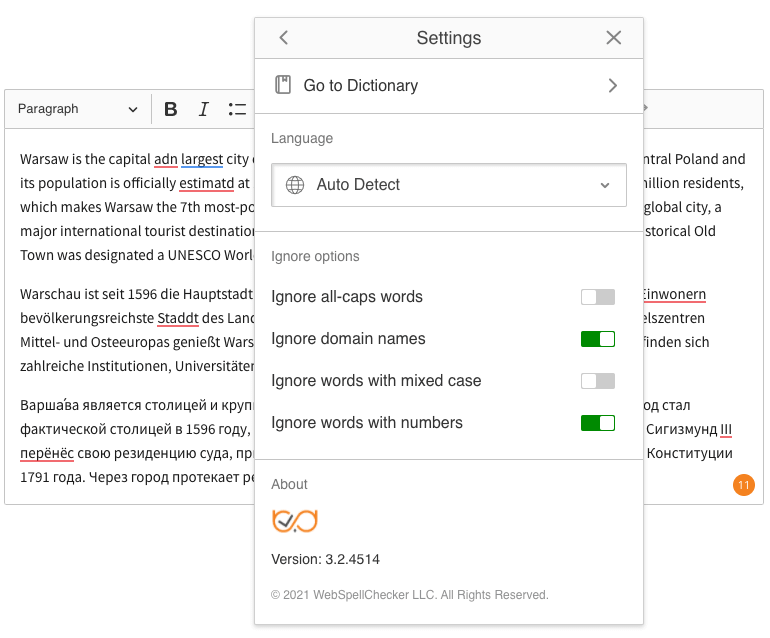
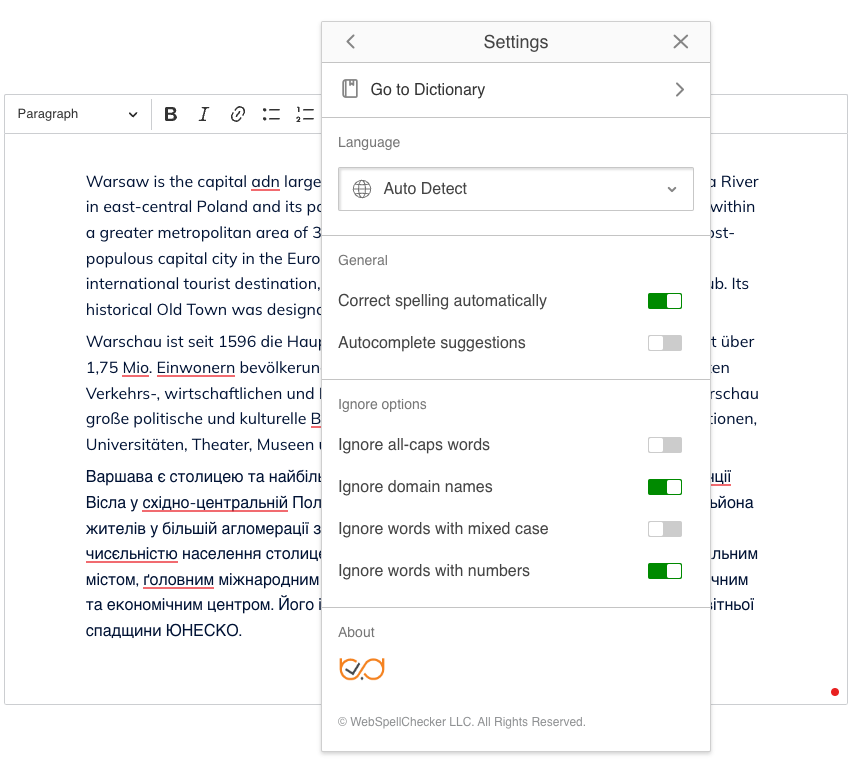
Docs: WebSpellChecker Docs. See #2020

diff --git a/docs/_snippets/features/wproofreader.html b/docs/_snippets/features/wproofreader.html
@@ -1,7 +1,7 @@
 <div id="snippet-wproofreader">
 	<p>Warsaw is the capital adn largest city of Poland. The metropolis stands on the Vistula River in east-central Poland and its population is officially estimatd at 1.8 million residents within a greater metropolitan area of 3.1 million residents, which makes Warsaw the 7th most-populous capital city in the European Union. Warsaw is an alpha-global city, a major international tourist destination, and a significaant cultural, political, and economic hub. Its historical Old Town was designated a UNESCO World Heritage Site.</p>
 
-	<p>Warschau ist seit 1596 die Hauptstadt Polens und die fl&auml;chenm&auml;&szlig;ig gr&ouml;&szlig;te sowie mit &uuml;ber 1,75 Mio. Einwonern bev&ouml;lkerungsreichste Staddt des Landes. Als eines der wichtigsten Verkehrs-, Wirtschafts- und Handelszentren Mittel- und Osteeuropas genie&szlig;t Warschau gro&szlig;e politische und kulturelle Bedetung. In der Stadt befinden sich zahlreiche Institutionen, Universit&auml;ten, Theater, Museen und Baudenkm&auml;ler.</p>
+	<p>Warschau ist seit 1596 die Hauptstadt Polens und die fl&auml;chenm&auml;&szlig;ig gr&ouml;&szlig;te sowie mit &uuml;ber 1,75 Mio. Einwonern bev&ouml;lkerungsreichste Staddt des Landes. Als eines der wichtigsten Verkehrs-, wirtschaftlichen und Handelszentren Mittel- und Osteeuropas genie&szlig;t Warschau gro&szlig;e politische und kulturelle Bedetung. In der Stadt befinden sich zahlreiche Institutionen, Universit&auml;ten, Theater, Museen und Baudenkm&auml;ler.</p>
 
-	<p>Варшава является столицей и крупнейшим по населению, и территории городом Польшй. Город стал фактической столицей в 1596 году, коггда после пожара в Вавельском замке в Кракове король Сигизмунд III перёнёс свою резиденцию суда, при этом столичный статус города был подтверждён только в Конституции 1791 года. Через город протекает река Висла, разделяющая город приблизительно поровну.</p>
+	<p>Варшава є столицею та найбільшим містом Польщі. Мегаполіс розташований на річції Вісла у східно-центральній Польщі, а його населення офіційно оцінюється в 1,8 мільйона жителів у більшій агломерації з 3,1 мільйона жителів, що робить Варшаву 7-ю за чисєльністю населення столицею в Європейському Союзі. Варшава є альфа-глобальним містом, ґоловним міжнародним туристичним центром і значним культурним, політичним та економічним центром. Його історичне Старе місто було визнано обьєктом Всесвітньої спадщини ЮНЕСКО.</p>
 </div>

diff --git a/docs/features/spelling-and-grammar-checking.md b/docs/features/spelling-and-grammar-checking.md
@@ -1,31 +1,31 @@
 ---
 category: features
 menu-title: Spelling and grammar checking
-modified_at: 2021-05-07
+modified_at: 2022-10-05
 badges: [ premium ]
 ---
 
-# Proofreading, spelling and grammar checking
+# Spelling, grammar and punctuation checking
 
-[WProofreader](https://webspellchecker.com/wsc-proofreader) is an innovative, multi-language proofreading tool that combines the functionality of "spell check as you type" and "spell check in a dialog" in a modern, distraction-free UI. Spelling, punctuation and grammar suggestions are available on hover with no clicking needed or as a convenient dialog, both with additional in-place replacement suggestions.
+[WProofreader SDK](https://webspellchecker.com/wsc-proofreader) is an AI-driven, multi-language text correction tool. It offers handy as-you-type proofreading options in a modern, distraction-free UI. Spelling, grammar and punctuation suggestions are available on hover as you type or in separate dialog aggregating all mistakes and replacement suggestions in one place.
 
-You can fine-tune the spell checking rules via the dedicated settings menu. You can choose from a set of predefined languages (easily chosen and added as language packs) and manage additional custom dictionaries. Words can be added to the user dictionary directly from the suggestion card, too. If needed, the spell checker can be easily disabled and enabled again with a click.
+You can fine-tune WProofreader via the dedicated settings menu. Choose a primary language from a set of available ones, create and manage additional custom dictionaries. Words can be added to the user dictionary directly from the suggestion card, too. If needed, the spell checker can be easily disabled and enabled again with a click.
 
 After reading this guide, you may find additional interesting details and examples in the [Spell and grammar check in CKEditor 5](https://ckeditor.com/blog/feature-of-the-month-spell-and-grammar-check-in-ckeditor-5/) blog post.
 
 <info-box>
 	This is a premium feature that is additionally payable on top of CKEditor 5 commercial license fee and delivered by our partner, [WebSpellChecker](https://webspellchecker.com/). Please [contact us](https://ckeditor.com/contact/) if you have any feedback or questions.
 
-	You can also report any issues in [its official GitHub repository](https://github.com/WebSpellChecker/wproofreader).
+	You can report any issues in the WebSpellChecker [GitHub repository](https://github.com/WebSpellChecker/wproofreader).
 </info-box>
 
 <info-box info>
-	The Spelling and grammar checking feature is enabled by default in the {@link installation/getting-started/predefined-builds#superbuild superbuild} only. See the [installation](#installation) section to learn how to enable it in your editor.
+	The spell and grammar check feature is enabled by default in the {@link installation/getting-started/predefined-builds#superbuild superbuild} only. See the [installation](#installation) section to learn how to enable it in your editor.
 </info-box>
 
 ## Demo
 
-Use the toolbar button {@icon @webspellchecker/wproofreader-ckeditor5/theme/icons/wproofreader.svg Spelling and grammar check} to test the spelling and grammar checking feature in the editor below.
+Use the toolbar button {@icon @webspellchecker/wproofreader-ckeditor5/theme/icons/wproofreader.svg Spell and grammar check} to test the spell and grammar check feature in the editor below.
 
 {@snippet features/wproofreader}
 
@@ -33,45 +33,53 @@ Use the toolbar button {@icon @webspellchecker/wproofreader-ckeditor5/theme/icon
 	This demo only presents a limited set of features. Visit the {@link examples/builds/full-featured-editor full-featured editor example} to see more in action.
 </info-box>
 
-The proofreader badge in the bottom-right corner shows you the total number of mistakes detected. Hover an underlined word to display the proofreader suggestions for any of the spelling and grammar mistakes found. The hovercard allows the user to employ the feature on the go. If you want to see an overview of all mistakes, click the "Proofread in dialog" option in the toolbar dropdown. It will invoke a detached floating panel, easy to navigate and perfect for dedicated proofreading sessions.
+The WProofreader badge in the bottom-right corner shows you the total number of mistakes detected. Hover an underlined word to display the WProofreader suggestions for any of the spelling and grammar mistakes found. The suggestion card allows the user to employ the feature on the go. If you want to see an overview of all mistakes, click the "Proofread in dialog" option in the toolbar dropdown. It will invoke a detached floating dialog, which is easy to navigate and perfect for dedicated proofreading sessions.
 
-You can access the proofreader settings from the toolbar, too. These can be used to set the language dictionary and some additional proofreading settings.
+You can access the WProofreader settings from the toolbar, too. Set the primary language, create a spelling dictionary and tweak some additional proofreading settings.
 
 <info-box>
-	The toolbar button has been introduced in version 2.x of the WProofreader. Read more about configuring UI items in the {@link features/toolbar toolbar guide}. If you are still using version 1.x, the available settings and dialog options can be accessed through the bottom-right corner badge instead.
+	The toolbar button has been introduced in version 2.x of WProofreader. Read more about configuring UI items in the {@link features/toolbar toolbar guide}. If you are still using version 1.x, the available settings and dialog options can be accessed through the bottom-right corner badge instead.
 </info-box>
 
 ## Multi-language support
 
-The {@link features/language text part language} feature lets the user set different languages to different portions of the content. The spell checking and grammar feature offers full support for such a multilingual content. If the proofreader language is set to Auto Detect (or the `auto` language is set in the configuration), the feature will automatically recognize the text language and suggest error corrections and grammar specifically for that language, as shown in the demo above.
+The {@link features/language text part language} feature lets the user set different languages to different portions of the content. The spell and grammar check feature offers full support for a multilingual content. If the WProofreader language is set to Auto Detect (or the `auto` language is set in the configuration), the feature will automatically recognize the language for a sentence and suggest spelling and grammar corrections and grammar specifically for that language, as shown in the demo above.
 
 {@img assets/img/spellcheck-dictionary.png 770 Setting the spell checker dictionary to auto.}
+
+## Check types
+
+WProofreader checks texts for spelling, grammar, and punctuation mistakes. The Auto Detect feature facilitates correction of multilingual texts. Users don’t have to manually switch languages to proofread combo docs. Handy spelling Autocorrect validates user texts on the fly. Autocomplete suggestions for English make the proofreading process fast and smooth. The predictive text can be accepted with a right arrow key →.
 
 ## Supported languages and dictionaries
 
 ### Language support
 
-The most popular languages used with WProofreader include: American English, British English, Canadian English, Canadian French, French, German, Italian, Greek, Spanish, Finnish, Danish, Dutch, Portuguese, Swedish, Ukrainian, Norwegian Bokmål, Brazilian Portuguese. There are, however, over 160 languages altogether, available for download from the WebSpellChecker site. Grammar checking is available for over 20 languages.
+The most popular languages used with WProofreader include: American English, Australian English, Arabic, Brazilian Portuguese, British English, Canadian English, Canadian French, Danish, Dutch, Finnish, French, German, Greek, Hebrew, Italian, Indonesian, Norwegian Bokmål, Norwegian Nynorsk, Portuguese, Spanish, Swedish, Turkish, Ukrainian.
 
-A recent addition to the software are AI-driven tools. Smart algorithms employed in the AI-based language dictionaries offer a far better checking quality, generating proofreading suggestions based on the context of the sentence. They provide more suitable suggestions that address mistakes with thrice the accuracy of traditional dictionaries. The AI-based support is currently available for English and German.
+There are, however, more languages available from the WebSpellChecker site. Grammar checking is available for over 20 languages.
+
+The AI-driven tools approach for English, German, and Spanish is a recent addition to the software. It offers a far better checking quality, and generates proofreading suggestions based on the context of a sentence. It provides more suitable suggestions that address mistakes with 3X accuracy compared to traditional mechanism. The AI-based support is currently available for English and German.
 
 Here you can check the [full list of available languages](https://webspellchecker.com/additional-dictionaries/).
 
+### Specialized dictionaries
+
+Apart from the language dictionaries, WebSpellChecker offers two specialized dictionaries: medical and legal.
+
 ### Custom dictionaries
 
-Apart from the language dictionaries, WebSpellChecker offers two specialized dictionaries: a **medical** and a **legal** one, available for an additional fee.
+Custom dictionaries can be used in two ways.
 
-There are also two types of custom dictionaries available.
+One is the **user-level dictionary** that can be expanded during the regular use by adding new words. This is a perfect solution for users working on specific content that may contain slang or professional jargon.
 
-One is the **user dictionary** that can be expanded and will grow during the regular use of the feature simply by adding new words to the dictionary. This is a perfect solution for editors and writers working on specific content that may contain slang or professional jargon.
-
-The other is the so-called **company-wide dictionary**. These premade dictionaries can be uploaded by the system administrators or CKEditor 5 integrators and can be made available company-wide, accessible for all users. This way all benefits of a user-generated dictionary can be shared among the team, making the proofreading process more structured and controlled.
+The other is the so-called **company-level dictionary**. These premade dictionaries can be uploaded by system administrators or CKEditor 5 integrators and made available across the company, accessible for all users. This way all benefits of a user-generated dictionary can be shared among the team, making the proofreading process more structured and controlled.
 
 ## Accessibility
 
-The feature's UI is designed and oriented toward the comfort and ease of use. The proofreading floating dialog can be easily moved around, addressing the needs of left-handed editors and right-to-left language users. The clear, simple design is more readable for users with vision impairments. The dialog can also be navigated and operated with keyboard, eliminating the need to use a mouse or another pointing device.
+The WProofreader UI is designed and oriented toward comfort and ease of use. The proofreading floating dialog can be easily moved around, addressing the needs of left-handed editors and right-to-left language users. The clear, simple design is more readable for users with vision impairments. The dialog can also be navigated and operated with a keyboard, eliminating the need to use a mouse or another pointing device.
 
-The feature is compliant with WCAG 2.1 and Section 508 accessibility standards.
+The spell and grammar check is compliant with WCAG 2.1 and Section 508 accessibility standards.
 
 ## Installation
 
@@ -103,11 +111,11 @@ ClassicEditor
 	Read more about {@link installation/getting-started/installing-plugins installing plugins}.
 </info-box>
 
-At this step, it is required to provide a proper configuration. The proofreader can be used either as a [cloud solution](#wproofreader-cloud) or [hosted on your own server](#wproofreader-server).
+At this step, it is required to provide a proper configuration. WProofreader can be used either as a [cloud solution](#wproofreader-cloud) or [hosted on your server](#wproofreader-on-premise) (on-premise or in a private cloud).
 
 ### WProofreader Cloud
 
-After signing up for a [trial or paid version](https://ckeditor.com/contact/), you will receive your service ID which is used to activate the service.
+After signing up for a [trial or paid version](https://ckeditor.com/contact/), you will receive your service ID on your email which is used to activate the service.
 
 Add the following configuration to your editor:
 
@@ -127,9 +135,9 @@ ClassicEditor
 
 Refer to the [official documentation](https://github.com/WebSpellChecker/wproofreader-ckeditor5#install-instructions) for more details about the cloud setup and available configuration options.
 
-### WProofreader Server
+### WProofreader On-premise
 
-After signing up for a [trial or paid version](https://ckeditor.com/contact/), you will receive access to the WebSpellChecker Server package to install on your own server.
+After signing up for a [trial or paid version](https://ckeditor.com/contact/), you will receive access to the WebSpellChecker On-premise package to install it on your own server.
 
 You will need to add the following configuration to your editor:
 
